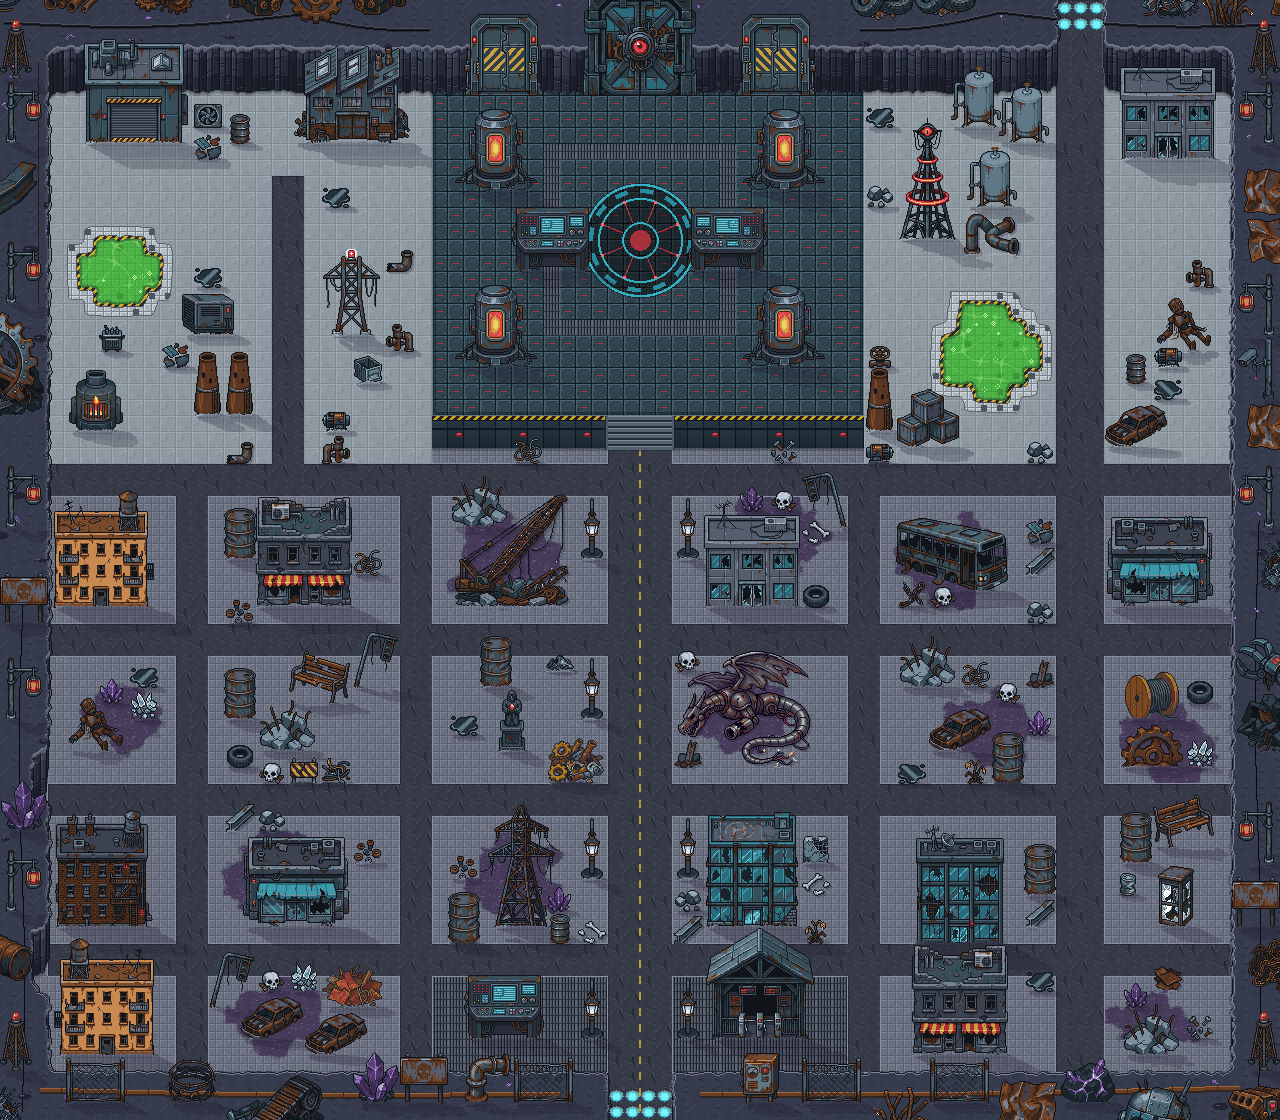
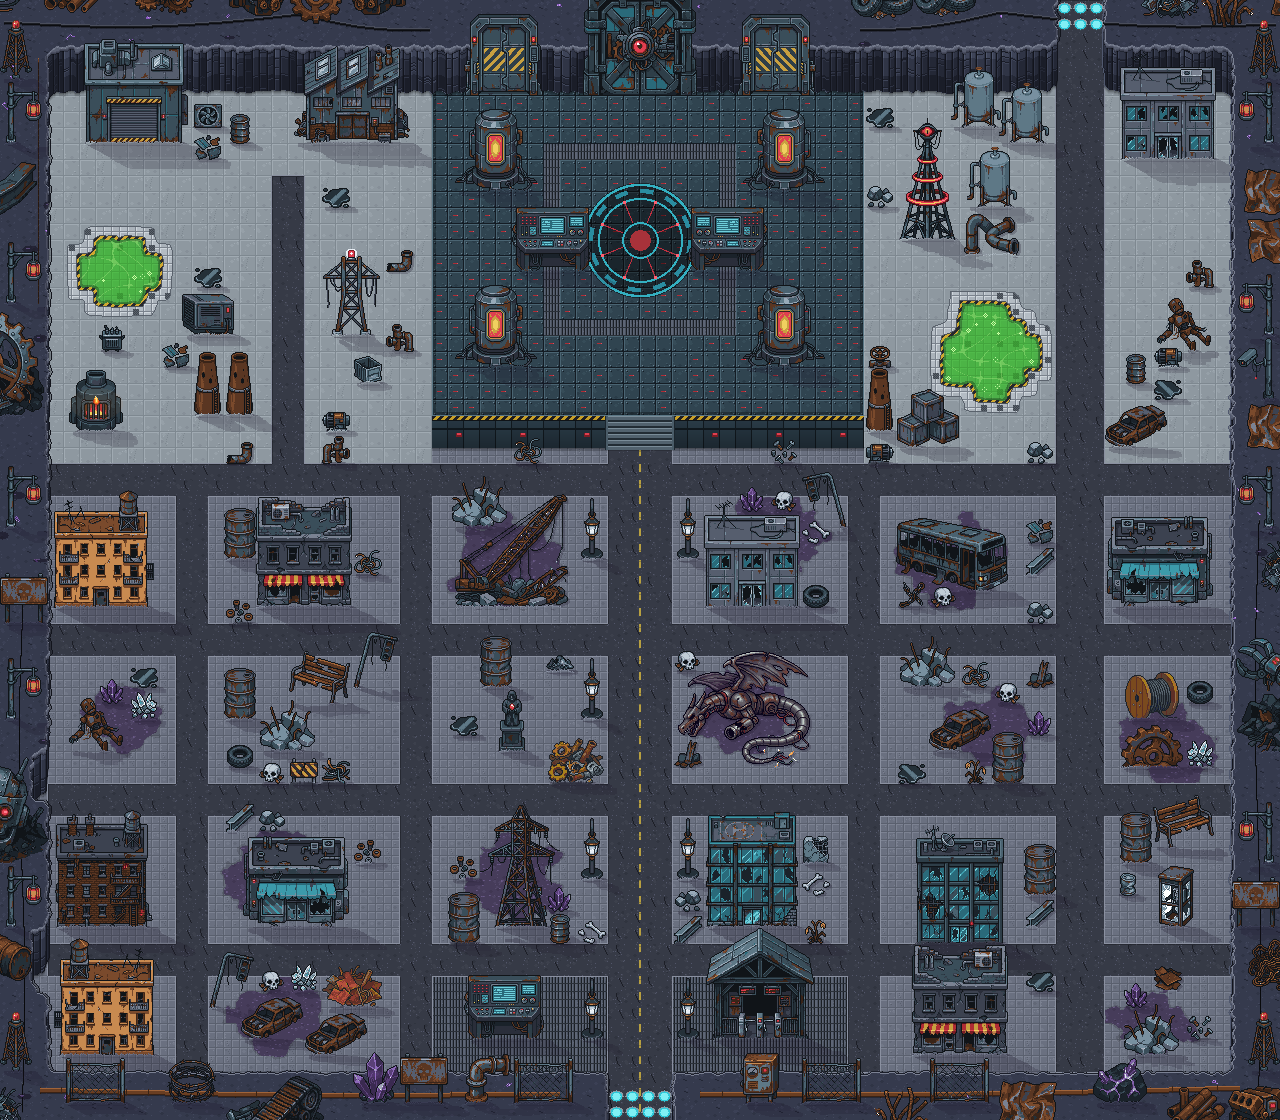
Karte 13: GIF der ganzen Karte - Lichter pulsieren wirklich (Reaktoren, Laternen, Kristalle), Mech-Kopf mit sichtbarem Auge an der linken Wand, tote Ampeln ohne Animation
Claude-Session: https://claude.ai/code/session_01SaoYHKhnro4LFcPJqjaPsq

Changed region(s): [[0.8125, 0.9375, 0.9688, 1.0], [0.0, 0.6875, 0.0312, 0.8125]]

diff --git a/tools/karte13_objekte.py b/tools/karte13_objekte.py
@@ -28,9 +28,9 @@ ACHSE_F = 40 * T                 # Festung (senkrechte Achse)
 
 FLACH = {'klein/%02d' % i for i in (1, 2, 3, 4, 5, 6, 13, 14, 15, 23, 32, 35, 41, 48, 57, 59, 63)}
 LIEGEND = {'eigen/dragondead', 'klein/03', 'klein/13', 'klein/41', 'klein/32', 'klein/57', 'klein/59', 'gross2/02', 'gross/02', 'mittel/14'}
-LEUCHTEN = {'mittel/05': 'lampe', 'mittel/01': 'feuer', 'festung/00': 'glimmen', 'gross/00': 'rotlicht', 'gross2/03': 'rotlicht',
+LEUCHTEN = {'mittel/05': 'pulsieren', 'mittel/01': 'feuer', 'festung/00': 'pulsieren', 'gross/00': 'rotlicht', 'gross2/03': 'rotlicht',
             'festung/01': 'rotlicht', 'festung/03': 'rotlicht', 'mittel/13': 'rotlicht', 'festung/02': 'konsole', 'gross/02': 'funken', 'eigen/dragondead': 'funken',
-            'mittel/04': 'ampel_blinken', 'klein/09': 'glimmen', 'klein/36': 'glimmen'}
+            'klein/09': 'pulsieren', 'klein/36': 'pulsieren'}
 RAUCH = {'mittel/00', 'mittel/01'}
 WIND = {'klein/15'}
 BLOCK_STREU = {'klein/00': 3, 'klein/01': 4, 'klein/02': 3, 'klein/04': 2, 'klein/05': 2, 'klein/06': 2, 'klein/11': 2,
@@ -203,12 +203,12 @@ def main():
         belegen(datei, x, y)
         return o
     KUPPE = 44                                                    # Breite der Bergkuppe innerhalb der Karte (px)
-    def versunken(name, seite, pos, spiegeln=False, **extra):
+    def versunken(name, seite, pos, spiegeln=False, versatz=0, **extra):
         """Maschinenteil im Fels: nur so weit sichtbar, wie die Bergkuppe reicht - ragt nie ueber die Kante."""
         datei, h, zu, mitte = sprite(name, spiegeln)
         hh, ww = alpha[datei].shape
         if seite == 'links':
-            X, fuss = KUPPE - ww + mitte, pos
+            X, fuss = KUPPE - ww + mitte + versatz, pos
         elif seite == 'rechts':
             X, fuss = Wp - KUPPE + mitte, pos
         else:                                                     # unten: Oberkante auf der Bergkuppe
@@ -217,7 +217,7 @@ def main():
     versunken('berg/00', 'links', 26 * T, kein_schatten=True)                    # Zahnrad links
     versunken('berg/01', 'unten', 17 * T, kein_schatten=True)                    # Panzerkette unten
     versunken('berg/02', 'rechts', 47 * T, spiegeln=True, kein_schatten=True)    # Roboterarm rechts
-    versunken('berg/03', 'unten', 72 * T, kein_schatten=True, anim='rotlicht')   # Mech-Kopf unten rechts, rotes Auge
+    versunken('berg/03', 'links', 54 * T, versatz=4, kein_schatten=True, anim='rotlicht')   # Mech-Kopf links, rotes Auge an der Kante sichtbar
     #    c) Wachtechnik auf der Bergkuppe: Funkmasten an den Ecken, Warnleuchten im festen Abstand, Kameras und
     #       Scheinwerfer zur Stadt, Zaun mit Luecken, Stacheldraht, Warnschilder, Kristalle, Kabel- und Rohrenden
     WACHE = [('wache/00', 1, 4), ('wache/00', 78, 4), ('wache/00', 1, 66), ('wache/00', 78, 66),

diff --git a/tools/karte13_animation.py b/tools/karte13_animation.py
@@ -1,0 +1,44 @@
+"""Animierte Fassung von Karte 13 (Spiral Mountain: Machine City) und Discord-GIF.
+
+  python3 tools/karte13_animation.py
+
+Animiert: Boss-Kreis, Teleporter, Giftwasser (Lichtnetz, Blasen), rote Lichter (Warnleuchten, Funkturm, Tor-Auge,
+Panzertueren, Mech-Kopf), Reaktoren, Konsolen, Laternen, Funken am Drachen-Wrack, Rauch, Ofen, kaputte Ampeln, Kristalle.
+"""
+import os, sys, time
+sys.path.insert(0, os.path.dirname(os.path.abspath(__file__)))
+from PIL import Image
+import karte13_bauen as k3
+import animation_bauen as ab
+
+OUT = os.path.join(k3.KARTE, 'animation')
+DAUER = 170
+AUSSCHNITTE = {'festung': (24, 0, 56, 30), 'hof_rechts': (52, 0, 80, 30), 'stadt': (24, 28, 64, 60)}
+
+
+
+def main():
+    os.makedirs(OUT, exist_ok=True)
+    t0 = time.time()
+    frames = []
+    for f in range(k3.N_FRAMES):
+        frames.append(k3.bauen(frame=f, speichern=False).convert('RGB'))
+        print('Frame %d/%d (%.0fs)' % (f + 1, k3.N_FRAMES, time.time() - t0), flush=True)
+    frames[0].save(os.path.join(OUT, 'karte13_animiert.webp'), save_all=True, append_images=frames[1:],
+                   duration=DAUER, loop=0, lossless=True, method=4)
+    alt, alt_dauer = ab.OUT, ab.DAUER
+    ab.OUT, ab.DAUER = OUT, DAUER
+    ab.discord_gif(frames)
+    os.replace(os.path.join(OUT, 'karte01_discord.gif'), os.path.join(OUT, 'karte13_discord.gif'))
+    ab.OUT, ab.DAUER = alt, alt_dauer
+    for name, (x0, y0, x1, y1) in AUSSCHNITTE.items():
+        box = (x0 * 16, y0 * 16, x1 * 16, y1 * 16)
+        teil = [fr.crop(box).resize(((x1 - x0) * 32, (y1 - y0) * 32), Image.NEAREST)
+                .quantize(colors=255, method=Image.Quantize.MAXCOVERAGE) for fr in frames]
+        teil[0].save(os.path.join(OUT, 'detail_%s.gif' % name), save_all=True, append_images=teil[1:],
+                     duration=DAUER, loop=0, disposal=1)
+    print('fertig')
+
+
+if __name__ == '__main__':
+    main()

diff --git a/tools/karte13_bauen.py b/tools/karte13_bauen.py
@@ -265,6 +265,35 @@ def ampel_blinken(sp, frame, o):
 k4.TEILANIM.update({'konsole': konsole, 'funken': funken, 'ampel_blinken': ampel_blinken})
 
 
+def _lichtpixel(ai):
+    al = ai[..., 3] > 0
+    mx = ai[..., :3].max(axis=2); mn = ai[..., :3].min(axis=2)
+    return al & (mx > 150) & ((mx - mn > 55) | (mn > 200))
+
+
+def pulsieren(sp, frame, o):
+    """Echte Lichtquellen (Reaktorkern, Laternenglas, Kristall): die hellen, farbigen Pixel pulsieren weich."""
+    a = np.array(sp)
+    ai = a.astype(int)
+    m = _lichtpixel(ai)
+    k_ = 0.72 + 0.4 * (0.5 + 0.5 * math.sin(2 * math.pi * frame / N_FRAMES + o.get('x', 0) * 0.05))
+    a[m, :3] = np.clip(ai[m, :3] * k_, 0, 255).astype(np.uint8)
+    return Image.fromarray(a)
+
+
+def blinken(sp, frame, o):
+    """Kaputte Ampel / Warnlicht: die Lampenpixel sind abwechselnd an und aus."""
+    a = np.array(sp)
+    ai = a.astype(int)
+    m = _lichtpixel(ai)
+    if ((frame + int(o.get('x', 0)) // 16) // 4) % 2:
+        a[m, :3] = (ai[m, :3] * 0.3).astype(np.uint8)
+    return Image.fromarray(a)
+
+
+k4.TEILANIM.update({'pulsieren': pulsieren, 'blinken': blinken})
+
+
 def rauch(img, objs, frame):
     """Schornsteine: graue Woelkchen steigen genau aus der Oeffnung oben, wachsen, treiben nach rechts und verblassen."""
     from PIL import ImageDraw
